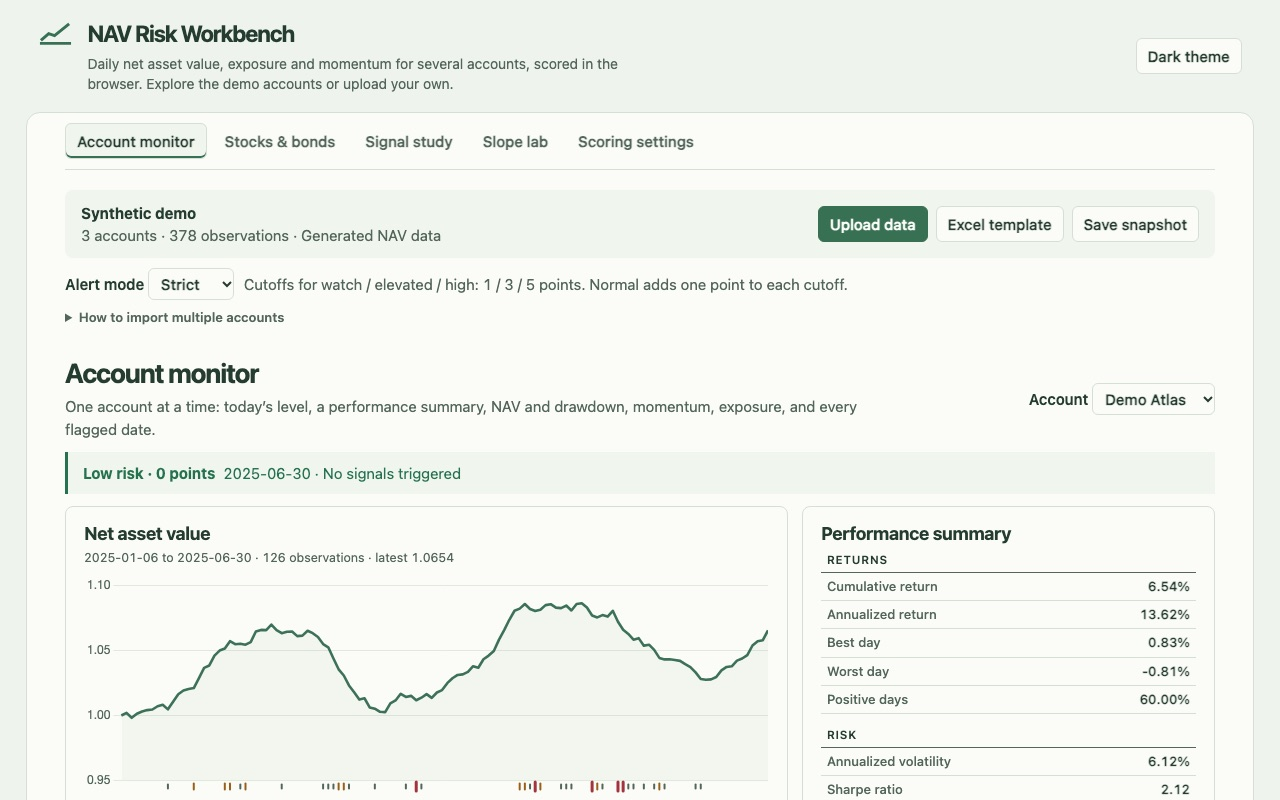
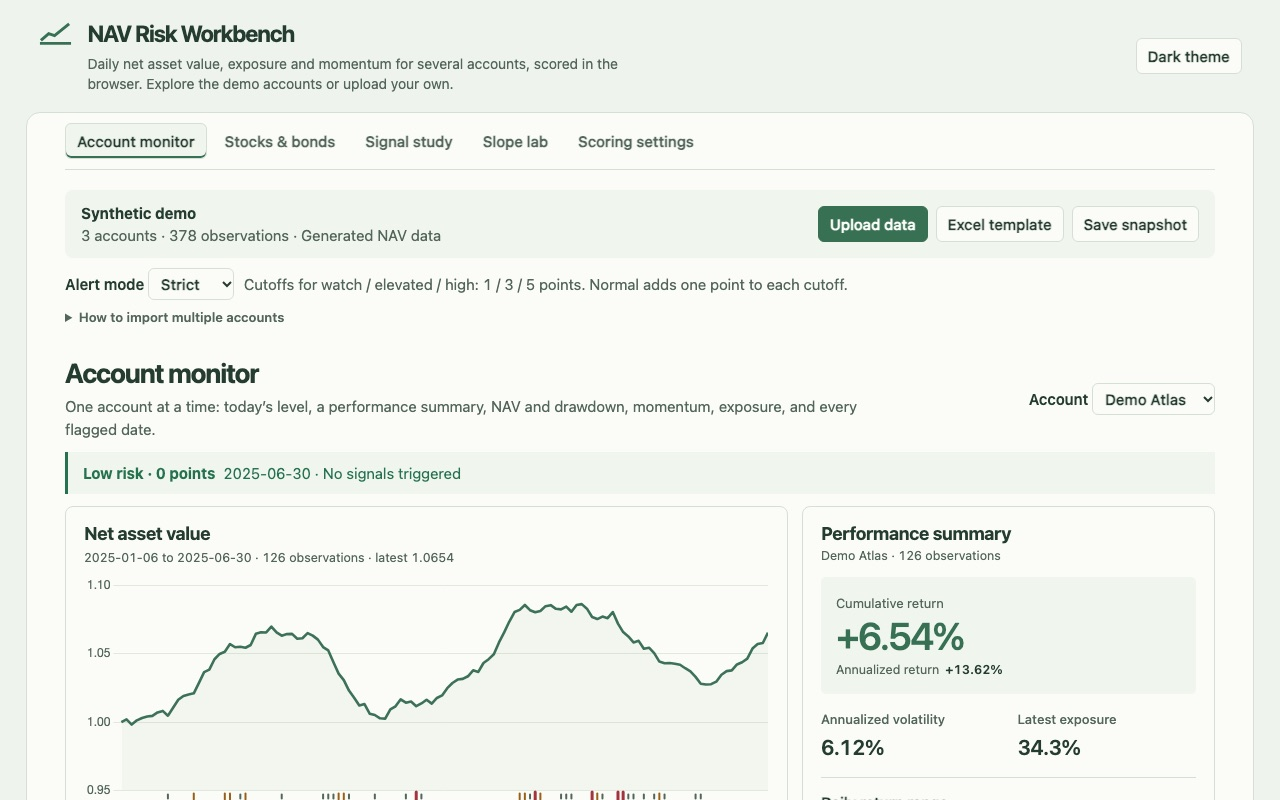
Recapture the workbench exhibit after its performance summary became a focused card

diff --git a/assets/details.js b/assets/details.js
@@ -44,7 +44,7 @@ const DETAILS = {
     chips: ['Python', 'pandas', 'NumPy', 'JavaScript', 'Factor evaluation', 'Backtesting', 'Risk monitoring'],
     screenshot: 'images/nav-risk-workbench.jpg',
     screenshotSize: [1280, 800],
-    screenshotAlt: 'The demo workbench, account monitor: a synthetic account’s risk level for the latest date, its net value chart with a signal strip beneath it, and a performance summary table of returns, risk, drawdown and exposure',
+    screenshotAlt: 'The demo workbench, account monitor: a synthetic account’s risk level for the latest date, its net value chart with a signal strip beneath it, and a performance summary card with the cumulative return highlighted, volatility and exposure, and the daily return range',
     metrics: [
       { label: 'Commodity futures covered', value: '54', note: 'Five sectors; eight fundamental factors tested on the platform.' },
       { label: 'Slope horizons', value: '3 / 5 / 10 days', note: 'Least-squares slope of net value over the trailing points, scaled to percent per day.' },

diff --git a/README.md b/README.md
@@ -80,4 +80,4 @@ This folder (`~/Xinrui-Portfolio`) is a full copy of shell v8.2 (`~/xinrui-site/
 - 2026-11-03, spec-sheet legibility: `.spec-l` labels go from 11px `--faint` (about 1.9:1 on paper) to 13px `--muted` (about 4.9:1), matching `.meta`; headline numbers (`.spec-item.num .spec-v`) from 20px weight 300 to 24px weight 400 (20px under 560px). Site-wide, so every project page and the home list change together.
 - 2026-11-03, internship page rewritten as one summer at Guangzhou Futures: title "Futures Factor Platform and NAV Risk Monitor", six sections (question, factor platform, NAV risk monitor, system design, what stays private, what I took from the summer), four structural metrics (54 futures, 3/5/10-day slopes, 0.20/0.35 %/day thresholds, 5 rules). The monitor's method was read from the owner's offline dashboard (`~/Desktop/portfolio准备材料/股债dashboard.html`), which is not hosted and whose account figures and sample sizes are deliberately not quoted. Home summary and `CONTRIBUTION` updated to match.
 - 2026-11-04, internship page gains an exhibit and an "Open" link: the NAV Risk Workbench demo at `https://suzanneisgenius.github.io/nav-risk-workbench/` (repository `Suzanneisgenius/nav-risk-workbench`, synthetic accounts only), screenshot `images/nav-risk-workbench.jpg` (1280×800, account monitor, captured from the rebuilt demo on 2026-11-04). `LINKS['quant-platform']` added; System design gets an "Open demo" line and the private-work note names the demo as a separate build. The link is to the hosted page, not the repository.
-- 2026-11-04, `images/nav-risk-workbench.jpg` recaptured (1280×800) after the demo workbench's account monitor was rebuilt as a tearsheet: a performance summary table beside the NAV and drawdown charts, plus worst-drawdown and monthly-return tables. Site text unchanged.
+- 2026-11-04, `images/nav-risk-workbench.jpg` recaptured (1280×800) after the demo workbench's account monitor was rebuilt as a tearsheet: a performance summary table beside the NAV and drawdown charts, plus worst-drawdown and monthly-return tables, then again the same day when the summary became a focused card (cumulative return highlighted, volatility and exposure, daily return range) over the worst-drawdown table. Site text unchanged apart from the exhibit alt text.
